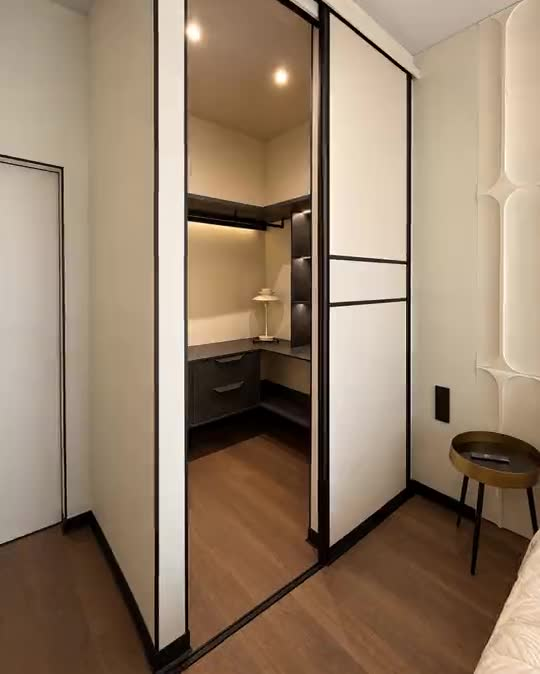
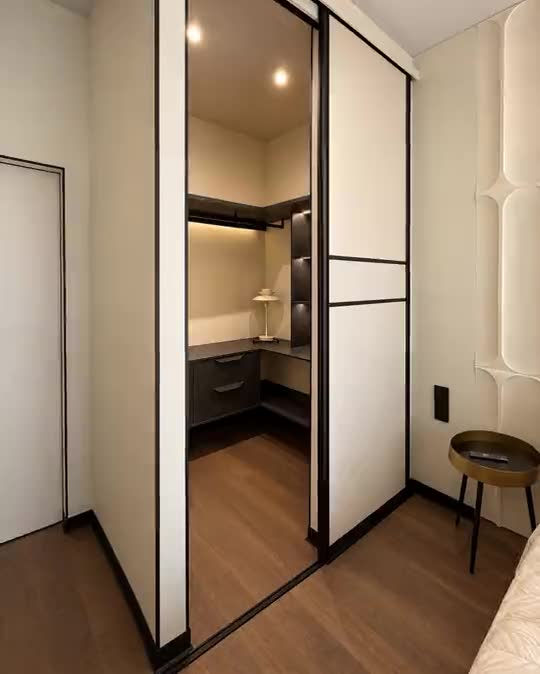
Видео-плитки: под видео — картинка его первого кадра, видео проявляется только с кадром (нет чёрных плиток); далёкие видео выгружаются
Claude-Session: https://claude.ai/code/session_01LjRWgWchhktbZiy7q2U4L2

diff --git a/portfolio.html b/portfolio.html
@@ -17,6 +17,9 @@ a{color:#f4f1ec}a:hover{color:#bfd630}
 .pin{display:block;margin:0}
 .pin-img{transition:transform .5s ease, filter .3s ease}
 .pin-btn:hover .pin-img{transform:scale(1.035)}
+/* видео-плитки: под видео — картинка его первого кадра; видео проявляется, только когда у него есть кадр (нет чёрного) */
+.feed-v{opacity:0;transition:opacity .2s ease}
+.feed-v.ready{opacity:1}
 /* плитки изделий: в покое — чистое фото; при наведении — затемнение, название по центру, значок «развернуть» */
 .ph-over{background:rgba(10,9,8,.55);opacity:0;transition:opacity .35s ease}
 .ph-exp{opacity:0;transform:scale(.85);transition:opacity .3s ease, transform .3s ease}
@@ -190,7 +193,8 @@ a{color:#f4f1ec}a:hover{color:#bfd630}
             <a class="pin-btn" href="{{p.href}}" aria-label="Открыть проект: {{p.label}}" style="position: absolute; top: 0; left: 0; right: 0; bottom: 0; display: block; border-radius: 18px; overflow: hidden; background: #1f1c19; text-decoration: none">
               <!-- обложка-видео проекта (поле coverVideo): играет, когда плитка видна на экране -->
               <sc-if value="{{p.hasVideo}}" hint-placeholder-val="{{ false }}">
-                <video class="pin-img" data-src="{{p.video}}" preload="none" muted="" loop="" playsinline="" style="pointer-events: none; position: absolute; top: 0; left: 0; display: block; width: 100%; height: 100%; object-fit: cover"></video>
+                <img class="vid-ph" src="{{p.ph}}" alt="" aria-hidden="true" loading="lazy" decoding="async" style="position: absolute; top: 0; left: 0; display: block; width: 100%; height: 100%; object-fit: cover">
+                <video class="pin-img feed-v" data-src="{{p.video}}" preload="none" muted="" loop="" playsinline="" style="pointer-events: none; position: absolute; top: 0; left: 0; display: block; width: 100%; height: 100%; object-fit: cover"></video>
               </sc-if>
               <sc-if value="{{p.noVideo}}" hint-placeholder-val="{{ true }}">
                 <span class="cx-blank" style="position: absolute; top: 0; left: 0; right: 0; bottom: 0; background: #26221f"></span>
@@ -207,7 +211,8 @@ a{color:#f4f1ec}a:hover{color:#bfd630}
         <!-- рилс: открывает режим REELS, как на странице проекта -->
         <sc-if value="{{p.isVideo}}" hint-placeholder-val="{{ false }}">
           <div class="pin" style="position: relative; flex: none; border-radius: 18px; overflow: hidden; background: #1f1c19; padding-top: 177.78%">
-            <video data-src="{{p.src}}" preload="none" muted="" loop="" playsinline="" style="pointer-events: none; position: absolute; top: 0; left: 0; display: block; width: 100%; height: 100%; object-fit: cover"></video>
+            <img class="vid-ph" src="{{p.ph}}" alt="" aria-hidden="true" loading="lazy" decoding="async" style="position: absolute; top: 0; left: 0; display: block; width: 100%; height: 100%; object-fit: cover">
+            <video class="feed-v" data-src="{{p.src}}" preload="none" muted="" loop="" playsinline="" style="pointer-events: none; position: absolute; top: 0; left: 0; display: block; width: 100%; height: 100%; object-fit: cover"></video>
             <span style="position: absolute; left: 12px; top: 12px; right: 56px; display: flex; flex-wrap: wrap; gap: 6px">
               <span style="height: 32px; box-sizing: border-box; display: inline-flex; align-items: center; background: rgba(255,255,255,0.94); color: #1c1a17; font-size: 13px; font-weight: 500; padding: 0 12px; border-radius: 999px; letter-spacing: 0.04em">REELS</span>
               <sc-if value="{{p.hasZone}}" hint-placeholder-val="{{ false }}"><span style="height: 32px; box-sizing: border-box; display: inline-flex; align-items: center; background: rgba(255,255,255,0.94); color: #1c1a17; font-size: 13px; font-weight: 500; padding: 0 12px; border-radius: 999px">{{p.zone}}</span></sc-if>
@@ -888,6 +893,10 @@ class Component extends DCLogic {
       if (v !== self._focusV && v.closest && v.closest('.feed')) v.pause();
     };
     document.addEventListener('play', this.onAnyPlay, true);
+    this.onVidFrame = function (e) { var v = e.target; if (v && v.classList && v.classList.contains('feed-v')) v.classList.add('ready'); };
+    this.onVidReset = function (e) { var v = e.target; if (v && v.classList && v.classList.contains('feed-v')) v.classList.remove('ready'); };
+    ['loadeddata', 'playing', 'seeked'].forEach(function (t) { document.addEventListener(t, self.onVidFrame, true); });
+    document.addEventListener('emptied', this.onVidReset, true);
     this.ensureVideo();
     this.watchNear();
   }
@@ -993,8 +1002,8 @@ class Component extends DCLogic {
             if (e.isIntersecting) { var dp = el.getAttribute('data-poster'); if (dp && !el.getAttribute('poster')) el.setAttribute('poster', dp);
               // подходит к экрану — заранее грузим видео (без запуска), чтобы по касанию оно стартовало сразу, без чёрного кадра
               if (el.preload !== 'auto') el.preload = 'auto'; s = self.feedSrc(el); if (s && el.getAttribute('src') !== s) el.src = s; else if (el.readyState === 0) { try { el.load(); } catch (x) {} } if (!self.slideOn()) { var pr = el.play(); if (pr && pr.catch) pr.catch(function () {}); } else self.focusPlay(); }
-            else if (!el.paused) el.pause(); });
-        }, { rootMargin: '0px 0px 20% 0px' });
+            else { if (!el.paused) el.pause(); if (!el.getAttribute('data-lb') && el.getAttribute('src')) { el.classList.remove('ready'); el.removeAttribute('src'); try { el.load(); } catch (x) {} } } });
+        }, { rootMargin: '60% 0px 40% 0px' });
         self._io.observe(v); continue;
       }
       if (self.isLocal(orig) && window.fetch && window.URL && window.Blob) {
@@ -1006,8 +1015,8 @@ class Component extends DCLogic {
               if (!self._io) self._io = new IntersectionObserver(function (es) {
                 es.forEach(function (e) { var el = e.target, s = el.getAttribute('data-src') || el.getAttribute('data-want');
                   if (e.isIntersecting) { if (s && el.getAttribute('src') !== s) { el.src = s; } if (!self.slideOn()) { var pr = el.play(); if (pr && pr.catch) pr.catch(function () {}); } else self.focusPlay(); }
-                  else if (!el.paused) el.pause(); });
-              }, { rootMargin: '0px 0px 20% 0px' });
+                  else { if (!el.paused) el.pause(); if (!el.getAttribute('data-lb') && el.getAttribute('src')) { el.classList.remove('ready'); el.removeAttribute('src'); try { el.load(); } catch (x) {} } } });
+              }, { rootMargin: '60% 0px 40% 0px' });
               v.setAttribute('data-want', u); self._io.observe(v); return;
             }
             if (v.getAttribute('src') !== u) { v.src = u; v.load(); }
@@ -1144,13 +1153,13 @@ class Component extends DCLogic {
     var pins = [];
     if (f === 'REELS') {
       D.reels.forEach(function (r, i) {
-        pins.push({ isVideo: true, src: r.src, poster: self.tilePoster(r.src, r.poster), label: r.project, zone: r.zone, hasZone: !!r.zone, open: function () { self.setState({ lb: 0, lbZone: '__reels', lbStart: i }); } });
+        pins.push({ isVideo: true, src: r.src, poster: self.tilePoster(r.src, r.poster), ph: self.tilePoster(r.src, r.poster), label: r.project, zone: r.zone, hasZone: !!r.zone, open: function () { self.setState({ lb: 0, lbZone: '__reels', lbStart: i }); } });
       });
     } else if (f === 'Комплекс') {
       // обложка проекта — видео (coverVideo); пока видео нет — тёмная плитка с названием
       D.projects.forEach(function (pr) {
         if (!pr.complex || !pr.href) return;
-        pins.push({ isLink: true, src: pr.cover, href: pr.href, label: pr.title, address: pr.address || 'Смотреть проект', hasVideo: !!pr.coverVideo, noVideo: !pr.coverVideo, video: pr.coverVideo || '', poster: pr.coverPoster || '' });
+        pins.push({ isLink: true, src: pr.cover, href: pr.href, label: pr.title, address: pr.address || 'Смотреть проект', hasVideo: !!pr.coverVideo, noVideo: !pr.coverVideo, video: pr.coverVideo || '', poster: pr.coverPoster || '', ph: pr.coverPoster || '' });
       });
     } else {
       D.items.forEach(function (it) {

diff --git a/CLAUDE.md b/CLAUDE.md
@@ -64,8 +64,10 @@
     стартуют сразу, без чёрного кадра.
     В «2 в ряд» на телефоне плитки берут лёгкие копии `<имя>-mini.mp4` (10 с, 360px, crf 32, ~0,2 МБ — `sh tools/make_minis.sh`
     после добавления видео); в «1 в ряд» и на ПК — обычные `-preview.mp4`.
-    Видео-плитки в ленте БЕЗ заставки (poster): показывают первый кадр самого видео — src с `#t=0.001` (`feedSrc()`),
-    видео у экрана грузятся заранее; так при запуске нет скачка кадра (Макс). `tilePoster()`/`-preview.jpg` сейчас не нужны.
+    Видео-плитки: под видео лежит `<img class="vid-ph">` — первый кадр ТОГО ЖЕ превью (`<имя>-preview.jpg`, `tilePoster()`;
+    у обложек — `p<N>-preview.jpg`, кадр 0,05 с); само видео (`.feed-v`) прозрачно, пока не покажет кадр (`loadeddata/playing`
+    → класс `ready`) — так нет ни чёрных плиток, ни скачка. src с `#t=0.001`. Видео дальше ~полэкрана от экрана выгружаются
+    (removeAttribute src) — iPhone держит ограниченное число загруженных видео, иначе после просмотра были чёрные плитки.
     На ПК играют все видимые. В остальных лентах и на ПК его нет.
   - Переход между лентами — «Волна» (выбрал Макс): старые плитки гаснут, новые всплывают снизу по очереди;
     плашка загорается сразу. Код — `switchFeed()` / `animateIn()`. Тексты и цены пока продублированы
